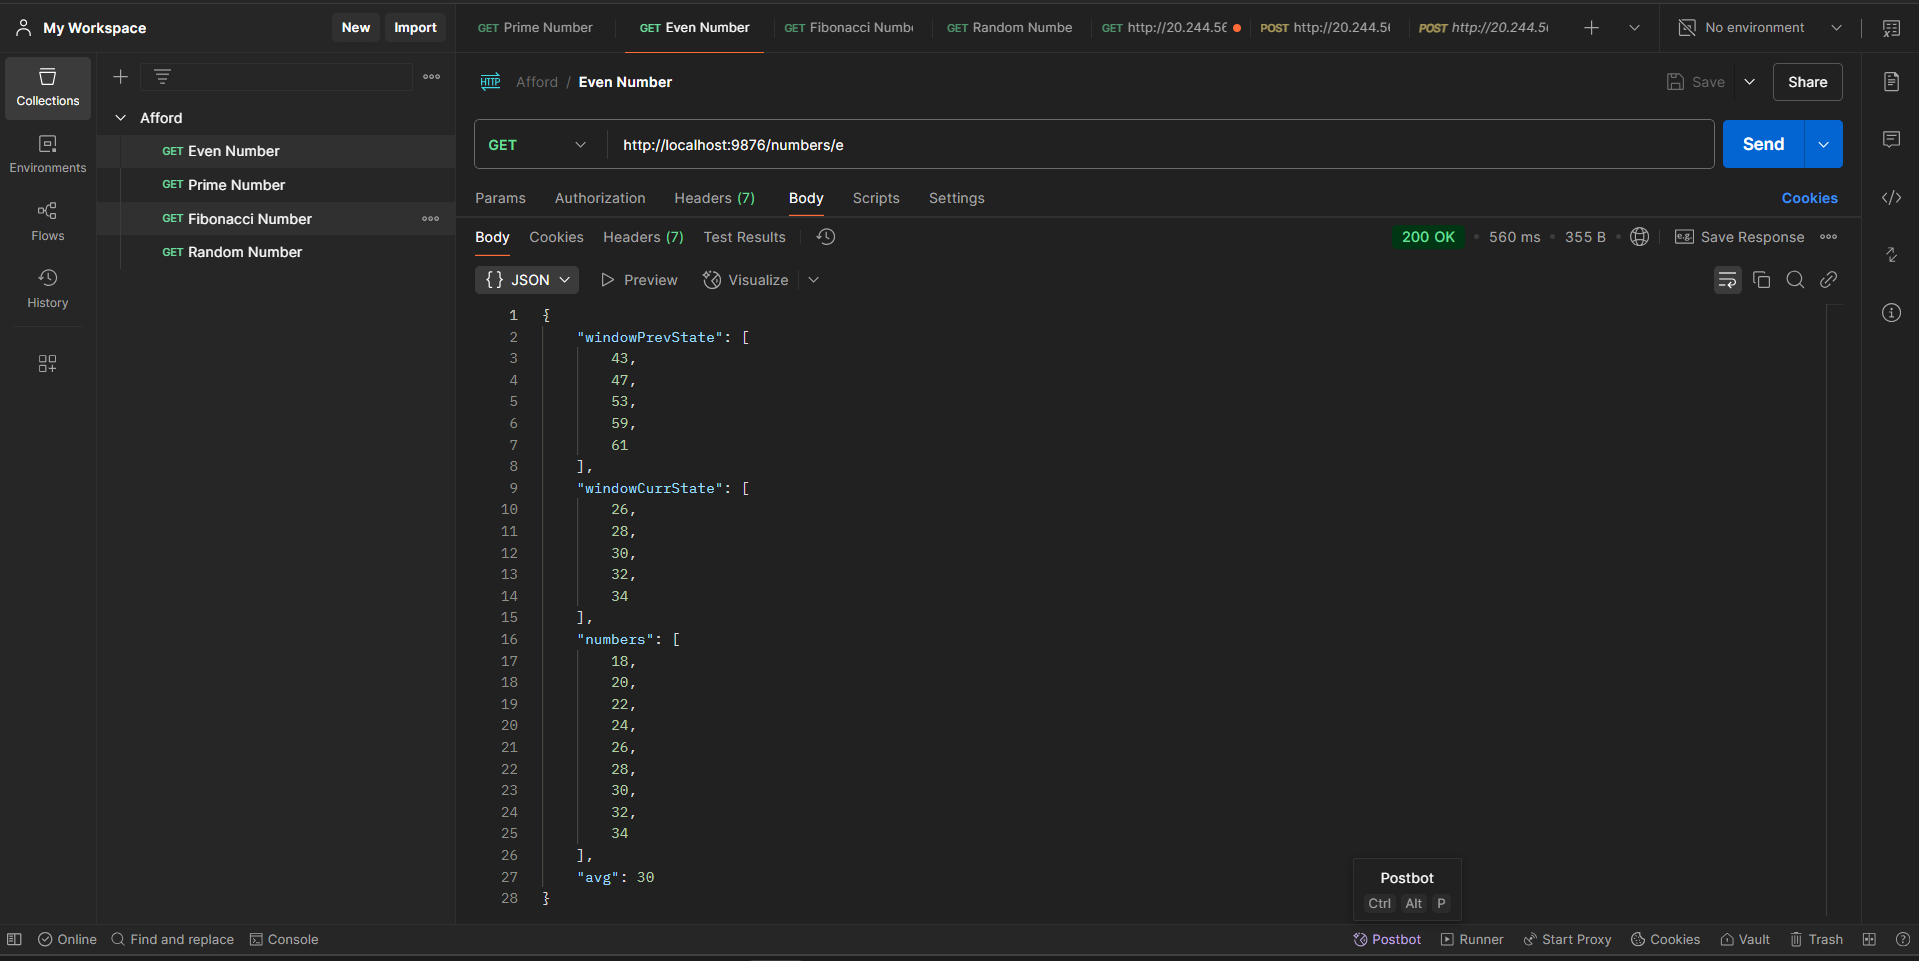
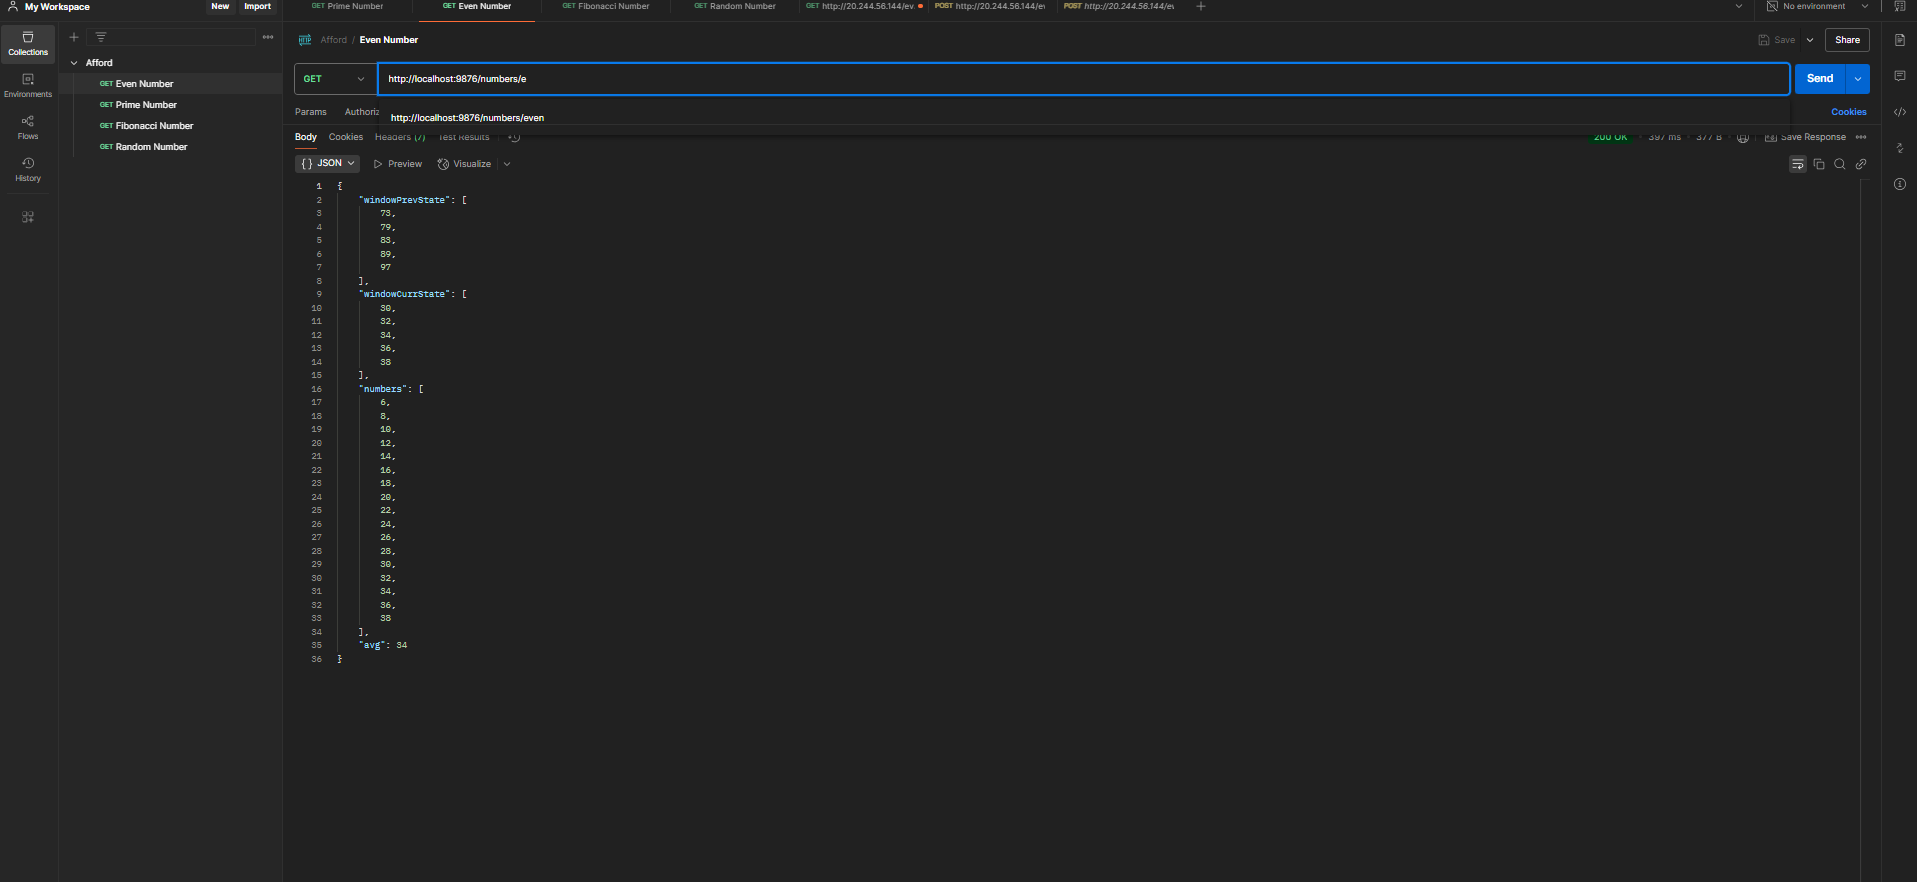
added 500 ms threshold

diff --git a/1_Average_Calculator_Microservice/index.js b/1_Average_Calculator_Microservice/index.js
@@ -7,36 +7,49 @@ const PORT = process.env.PORT;
 const WINDOW_SIZE = process.env.WINDOW_SIZE;
 const BASE_URL = process.env.BASE_URL;
 const BEARER_TOKEN = process.env.BEARER_TOKEN;
-console.log("Base url: ", BASE_URL);
+
+console.log("Base URL:", BASE_URL);
 
 const VALID_IDS = { p: 'primes', f: 'fibo', e: 'even', r: 'rand' };
 
 let numberWindow = [];
-const fetchNumbers = async (type) => {
+
+async function fetchNumbers(type) {
     try {
+        const source = axios.CancelToken.source();
+        const timeout = setTimeout(() => source.cancel(), 500); // this will help us receive quick responses.
+        
         const response = await axios.get(`${BASE_URL}/${type}`, {
-            headers: { Authorization: `Bearer ${BEARER_TOKEN}` }
+            headers: { Authorization: `Bearer ${BEARER_TOKEN}` },
+            cancelToken: source.token
         });
+        
+        clearTimeout(timeout);
         return response.data.numbers || [];
-    } catch {
+    } catch (error) {
+        console.log("Error fetching numbers or request timeout:", error.message);
         return [];
     }
-};
+}
 
-const updateWindow = (newNumbers) => {
-    const uniqueNumbers = [...new Set([...numberWindow, ...newNumbers])].slice(-WINDOW_SIZE);
-    const prevState = [...numberWindow];
-    numberWindow = uniqueNumbers;
+function updateWindow(newNumbers) {
+    let prevState = [...numberWindow];
+    numberWindow = Array.from(new Set([...numberWindow, ...newNumbers])).slice(-WINDOW_SIZE);
     return prevState;
-};
+}
 
 app.get('/numbers/:numberid', async (req, res) => {
-    const type = VALID_IDS[req.params.numberid];
-    if (!type) return res.status(400).json({ error: 'Invalid number ID' });
+    let type = VALID_IDS[req.params.numberid];
+    if (!type) {
+        return res.status(400).json({ error: 'Invalid number ID' });
+    }
     
-    const newNumbers = await fetchNumbers(type);
-    const prevState = updateWindow(newNumbers);
-    const avg = numberWindow.length ? (numberWindow.reduce((a, b) => a + b, 0) / numberWindow.length).toFixed(2) : 0;
+    const timeout = setTimeout(() => res.status(408).json({ error: "Request timed out" }), 500);
+    let newNumbers = await fetchNumbers(type);
+    clearTimeout(timeout);
+    
+    let prevState = updateWindow(newNumbers);
+    let avg = numberWindow.length > 0 ? (numberWindow.reduce((a, b) => a + b, 0) / numberWindow.length).toFixed(2) : 0;
     
     res.json({
         windowPrevState: prevState,
@@ -46,4 +59,4 @@ app.get('/numbers/:numberid', async (req, res) => {
     });
 });
 
-app.listen(PORT, () => console.log(`Server running on port ${PORT}`));
+app.listen(PORT, () => console.log(`Server running on http://localhost:${PORT}`));
